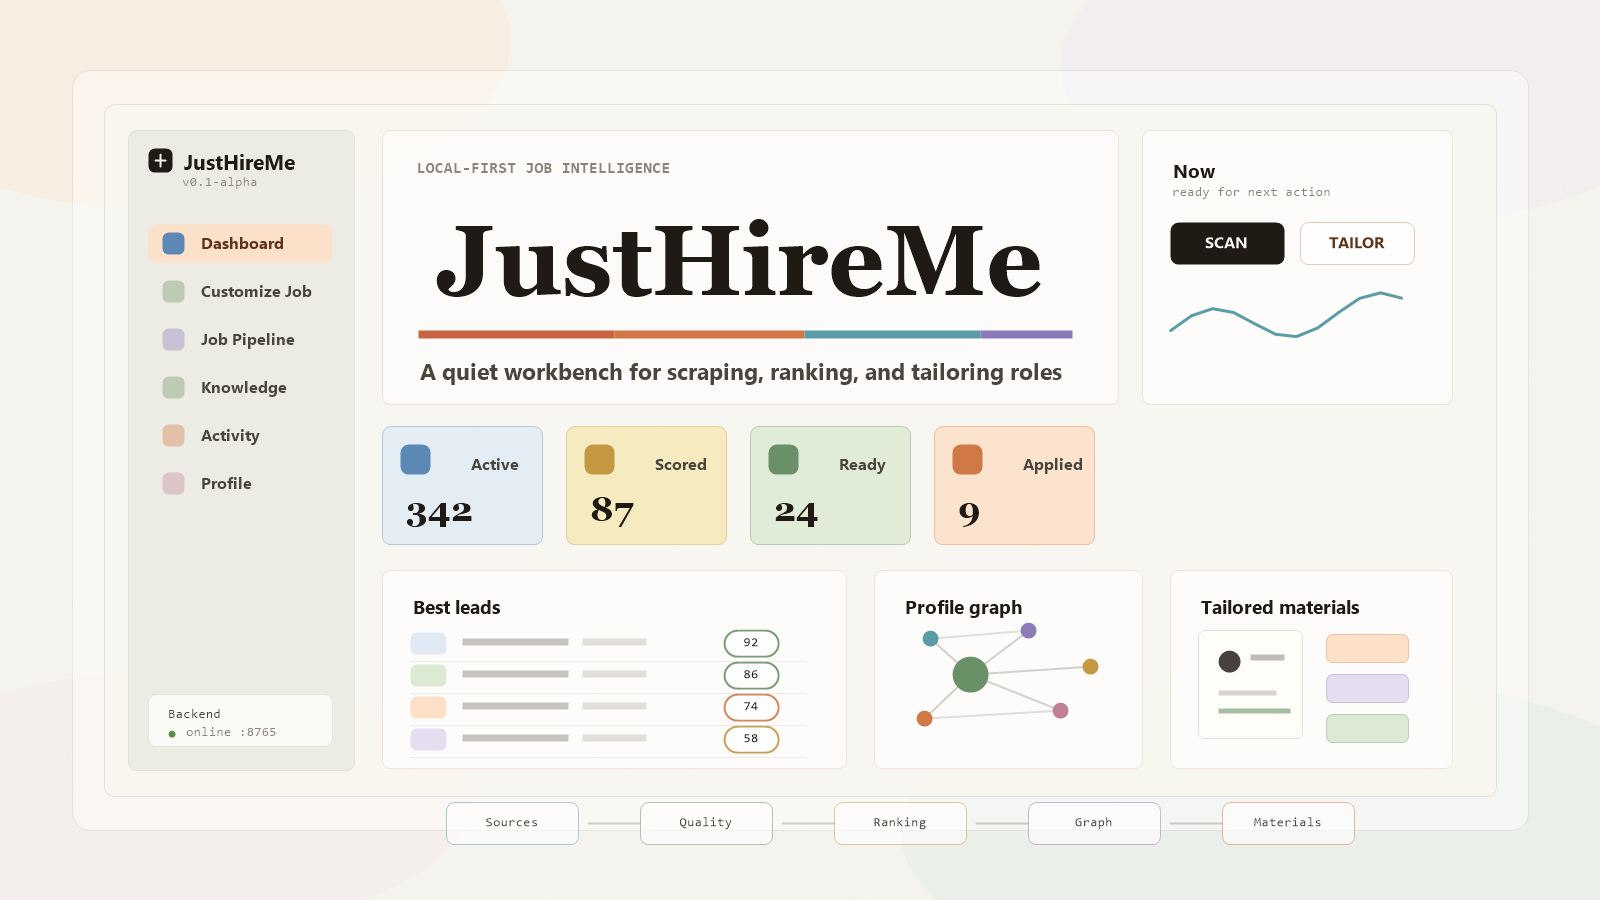
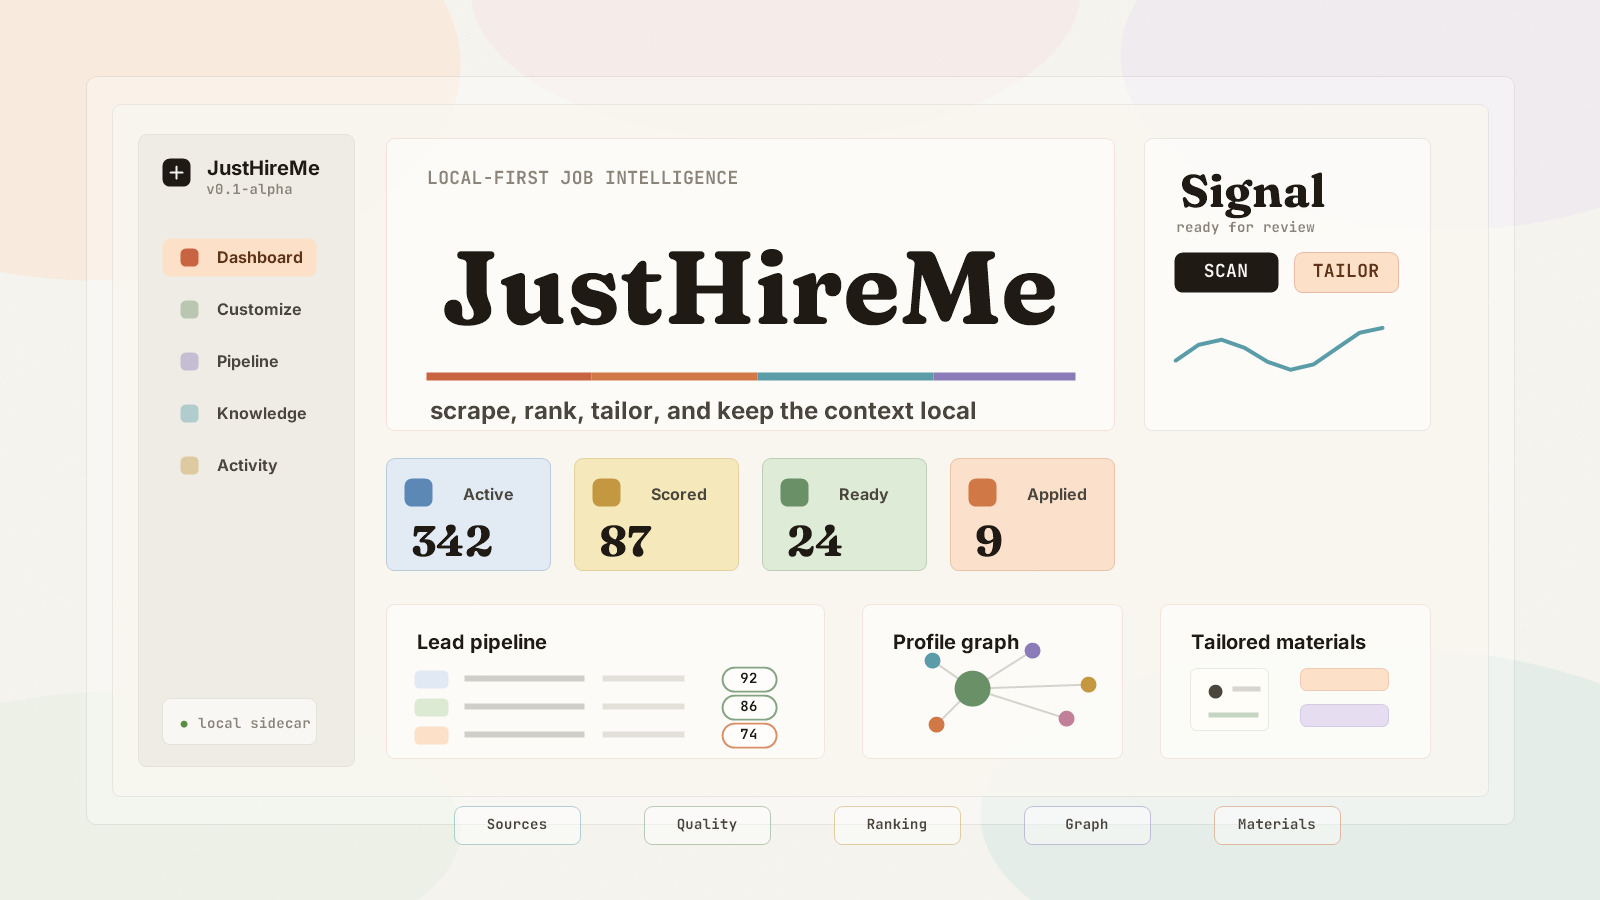
Render README hero with app typography

diff --git a/README.md b/README.md
@@ -1,5 +1,5 @@
 <p align="center">
-  <img src="docs/assets/justhireme-hero.svg" alt="JustHireMe local-first job intelligence workbench hero" width="100%" />
+  <img src="docs/assets/justhireme-hero.png" alt="JustHireMe local-first job intelligence workbench hero" width="100%" />
 </p>
 
 <h1 align="center">JustHireMe</h1>
